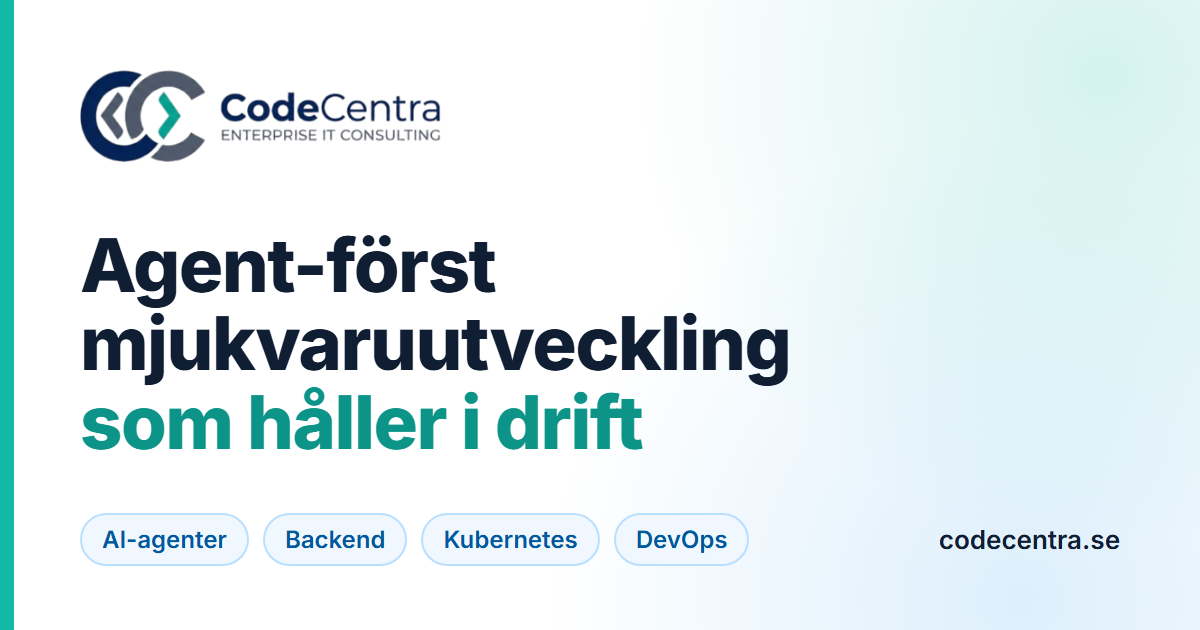
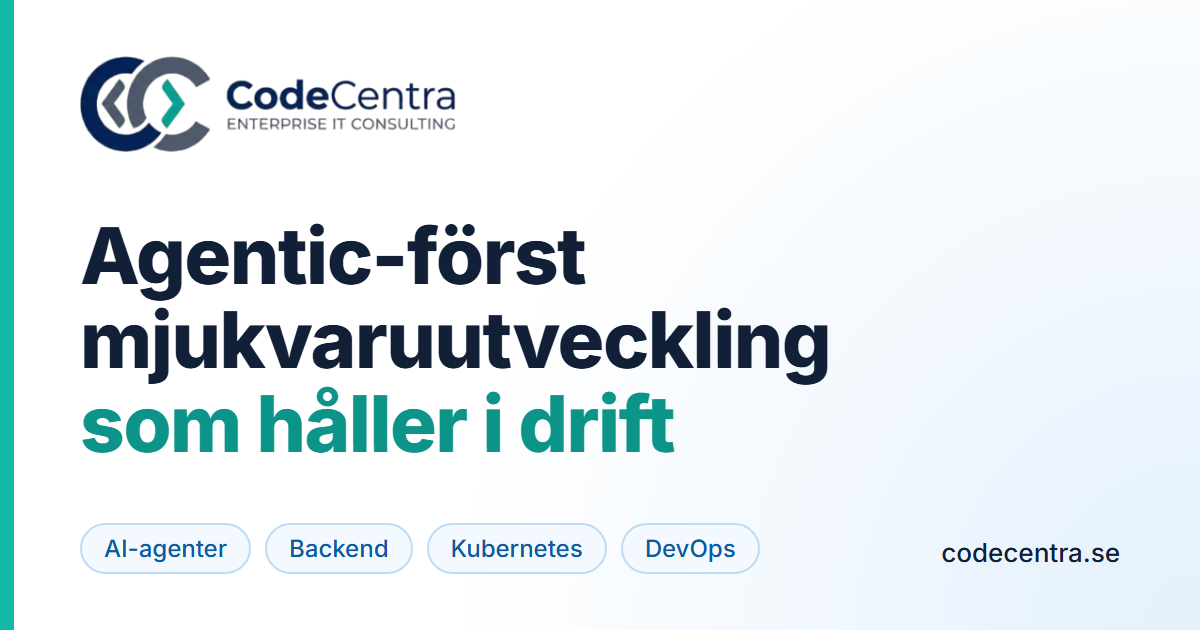
Use "Agentic-first" wording and regenerate og-image
Claude-Session: https://claude.ai/code/session_0117zrsqQxw9cDTMLM8Vyjfu

diff --git a/app/[locale]/layout.tsx b/app/[locale]/layout.tsx
@@ -42,7 +42,7 @@ export async function generateMetadata({ params }: Props): Promise<Metadata> {
     description: t('description'),
     keywords: [
       'agentic development',
-      'agent-first development',
+      'agentic-first development',
       'AI agents',
       'coding agents',
       'software factory',
@@ -131,8 +131,8 @@ export default async function RootLayout({ children, params }: Props) {
     name: 'CodeCentra',
     description:
       locale === 'sv'
-        ? 'Agent-först mjukvaruutveckling. Vi inför agentiska arbetssätt i team och bygger backend, Kubernetes och DevOps som fungerar i produktion.'
-        : 'Agent-first software development. We bring agentic workflows to teams and build backend, Kubernetes and DevOps that work in production.',
+        ? 'Agentic-först mjukvaruutveckling. Vi inför agentiska arbetssätt i team och bygger backend, Kubernetes och DevOps som fungerar i produktion.'
+        : 'Agentic-first software development. We bring agentic workflows to teams and build backend, Kubernetes and DevOps that work in production.',
     url: baseUrl,
     logo: `${baseUrl}/images/logo.png`,
     sameAs: ['https://www.linkedin.com/company/codecentra-sweden-ab/'],
